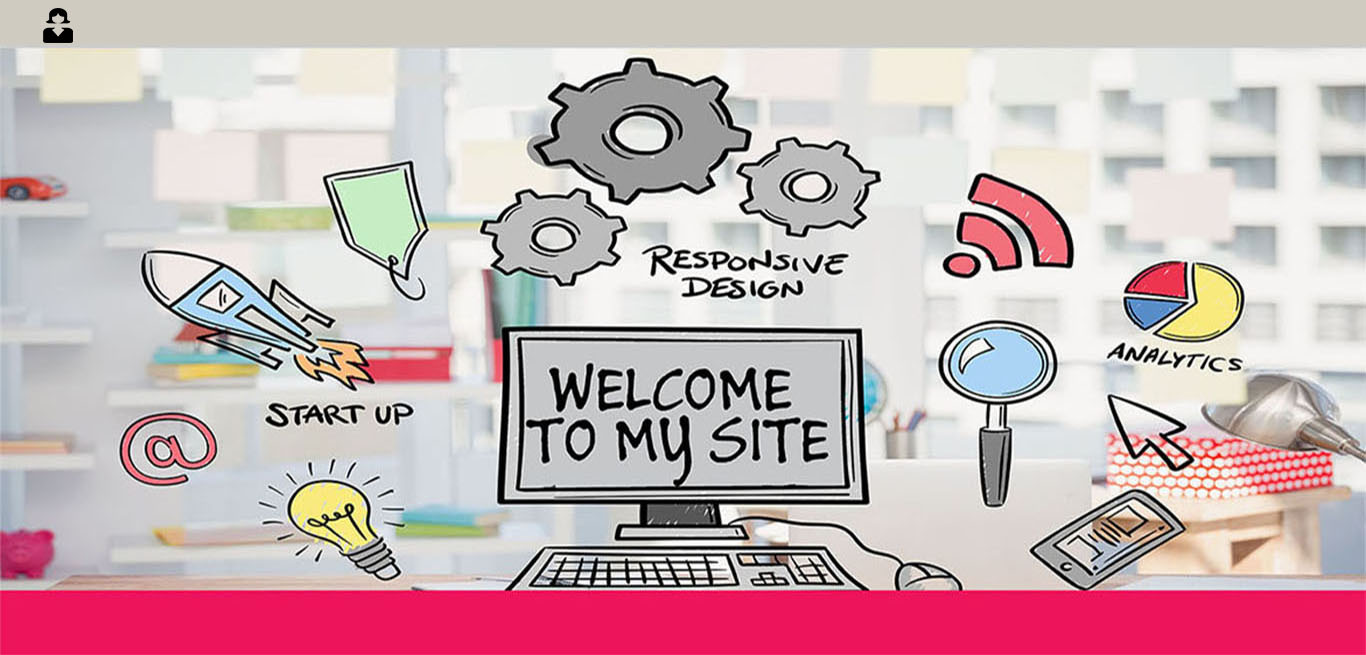
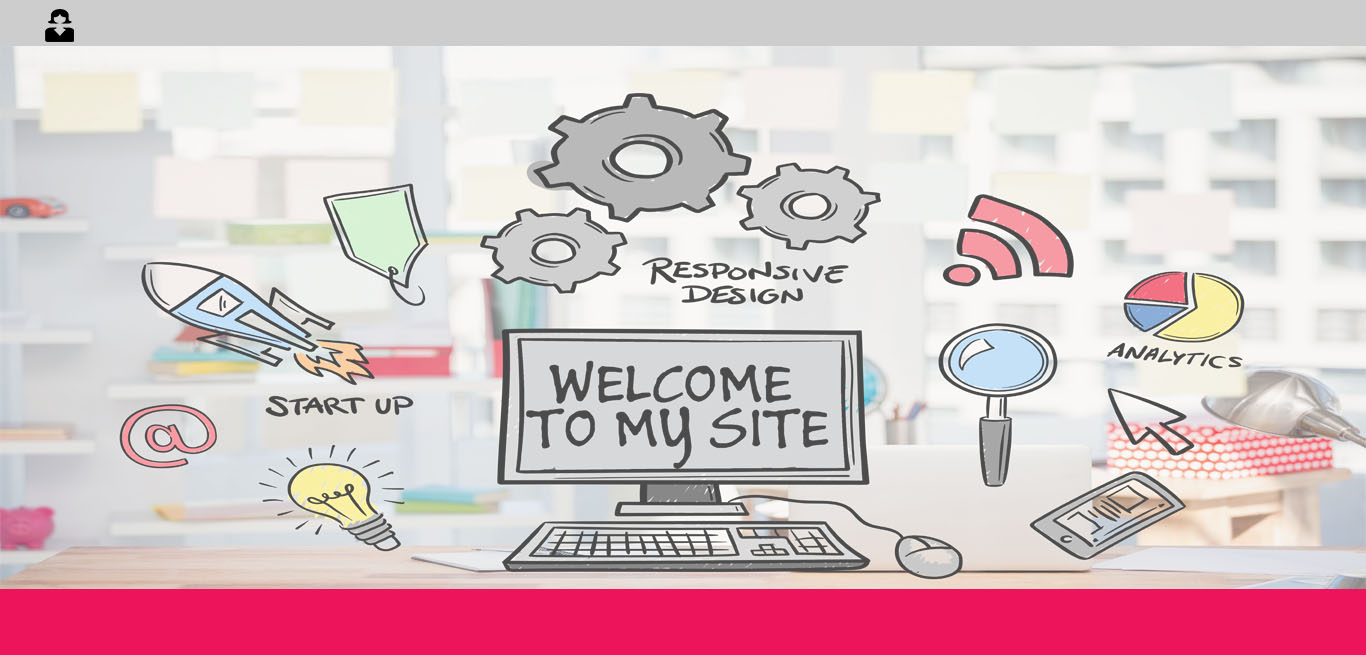
images/b3.jpg,profile.html,style3.css

diff --git a/profile.html b/profile.html
@@ -3,7 +3,6 @@
 <head>
 <title>Mice Dianne</title>
 <link rel="stylesheet" type="text/css" href="style3.css">
-<link rel="stylesheet" type="text/css" href="style1.css">
 <style>
 
 
@@ -23,14 +22,9 @@
 </style>
 </head>
 
-<body>
+<body >
 
-<ul>
-  
-  <li><a href="photos.html">Gallery</a></li>
-  <li><a href="profile.html">Profile</a></li>  
-  <li><a class="active" href="index.html">Home</a></li>
-</ul>
+
 
     <div id="profile">
 	<center>

diff --git a/style3.css b/style3.css
@@ -1,7 +1,7 @@
 * { margin: 0; padding: 0; }
 		
 		html { 
-			background: url(images/bg.jpg) no-repeat center center fixed; 
+			background: url(images/b3.jpg) no-repeat center center fixed; 
 			-webkit-background-size: cover;
 			-moz-background-size: cover;
 			-o-background-size: cover;
